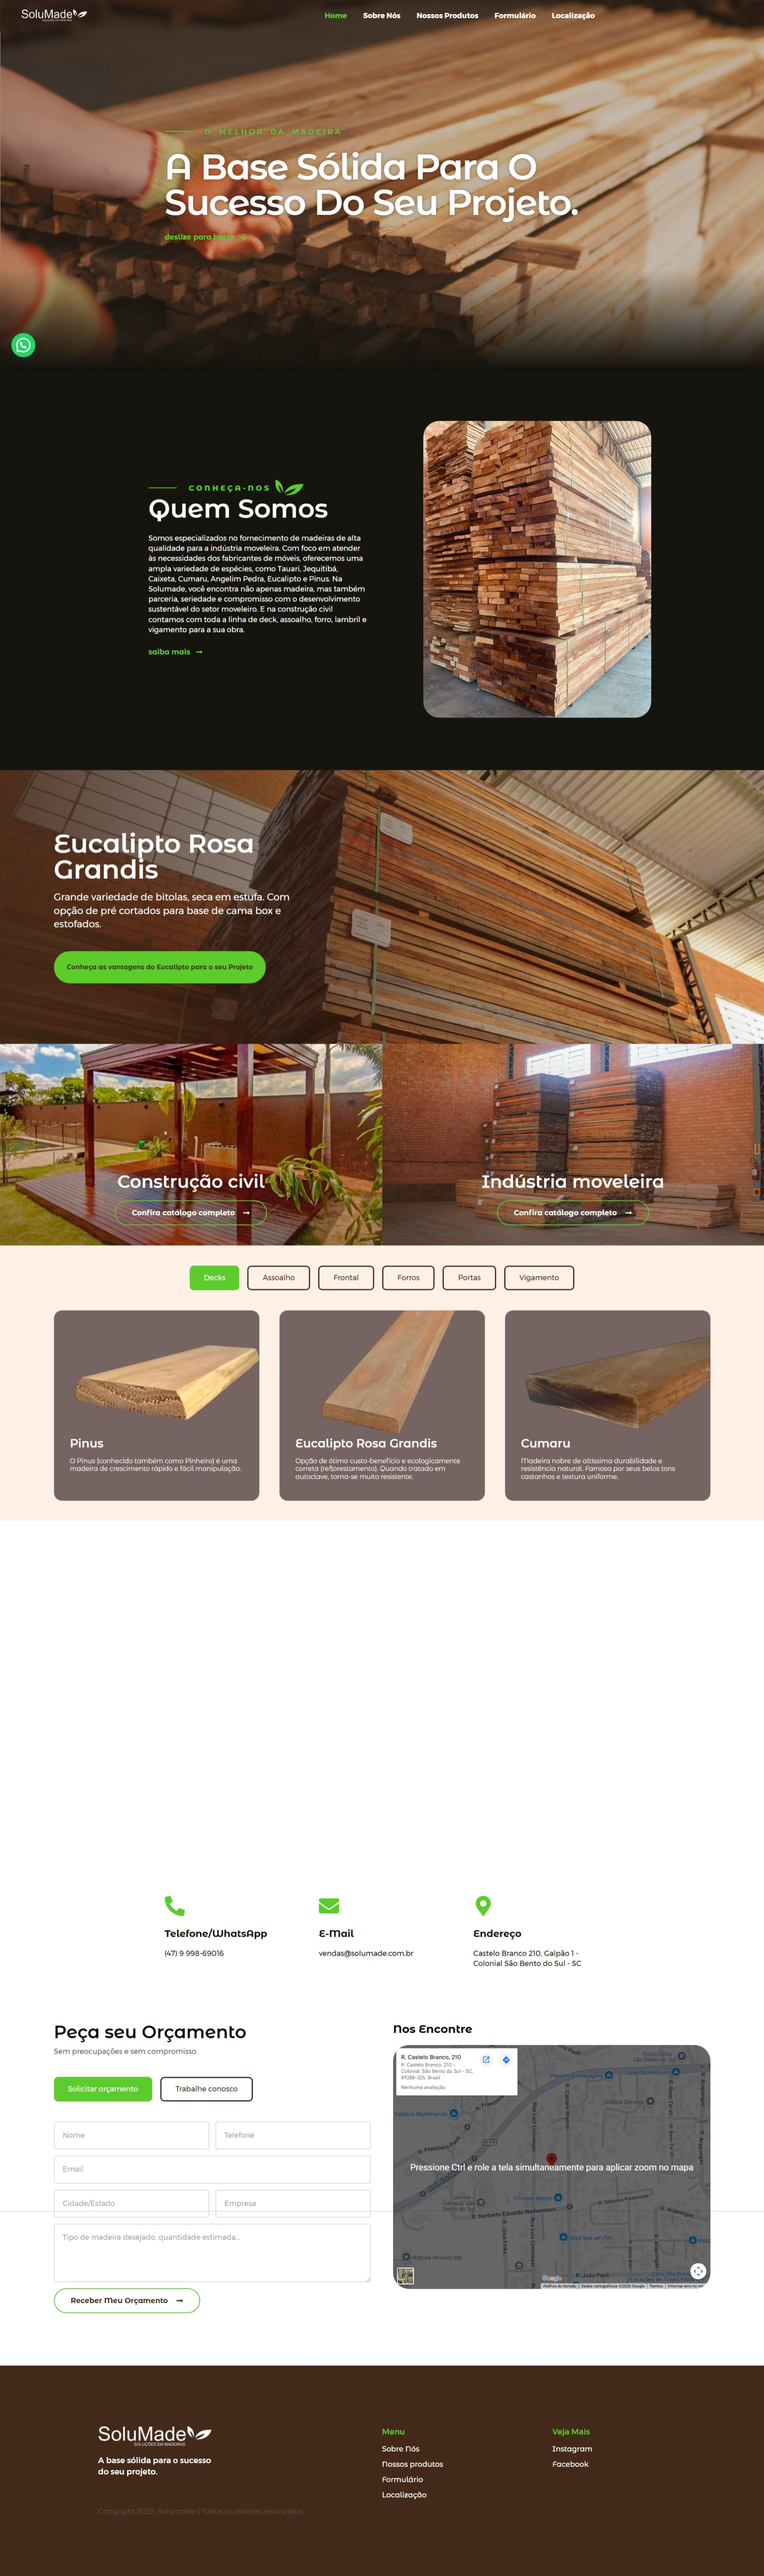
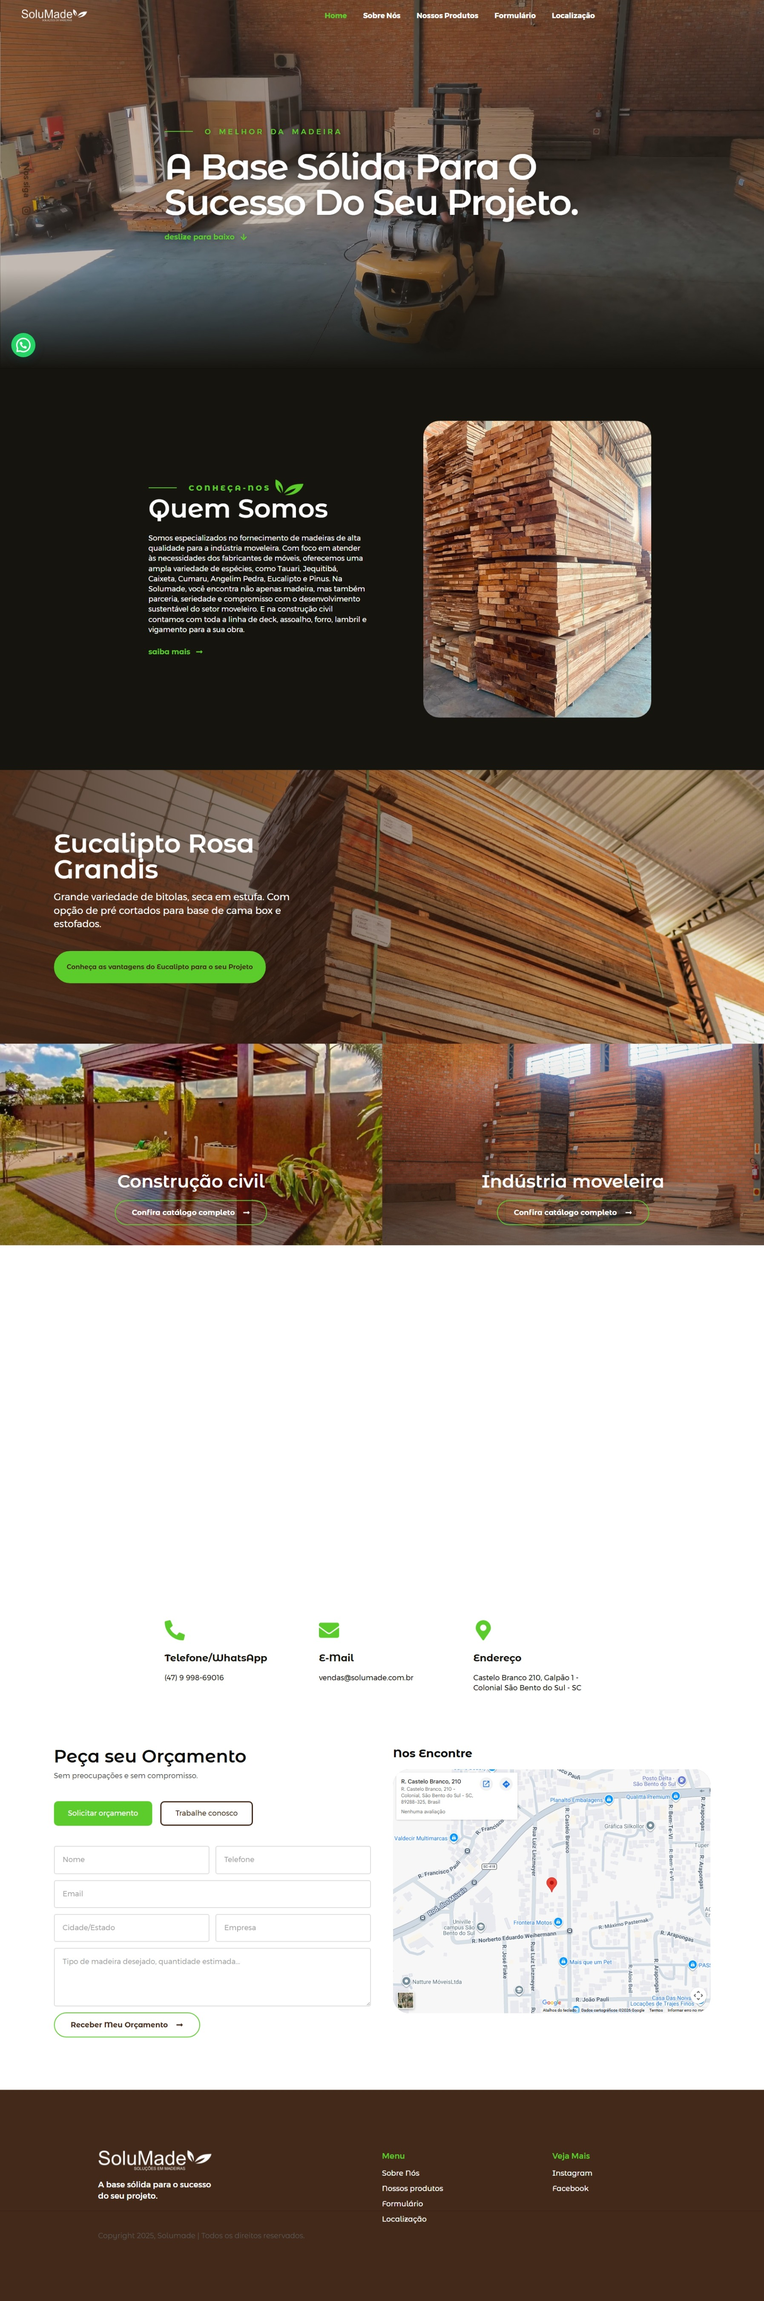
push 3

diff --git a/components/horizontal-gallery.tsx b/components/horizontal-gallery.tsx
@@ -39,6 +39,66 @@ const items = [
         description: "Infraestrutura escalável para resultados absurdos.",
         image: "/imagens/solumade.jpeg",
     },
+    {
+        id: 7,
+        title: "Kayu",
+        description: "Design moderno e elegante para sua marca.",
+        image: "/imagens/Kayu.png",
+    },
+    {
+        id: 8,
+        title: "Master Quality",
+        description: "Excelência e qualidade em cada detalhe.",
+        image: "/imagens/Master quality.png",
+    },
+    {
+        id: 9,
+        title: "SBC",
+        description: "Presença digital forte e impactante.",
+        image: "/imagens/SBC site.png",
+    },
+    {
+        id: 10,
+        title: "Bragança",
+        description: "Soluções visuais que convertem clientes.",
+        image: "/imagens/braganca.png",
+    },
+    {
+        id: 11,
+        title: "Echlin",
+        description: "Performance e design aliados para o sucesso.",
+        image: "/imagens/echlin.png",
+    },
+    {
+        id: 12,
+        title: "Silvertrend",
+        description: "Inovação e tecnologia em um só lugar.",
+        image: "/imagens/silvertrend.png",
+    },
+    {
+        id: 13,
+        title: "MAAHS",
+        description: "Excelência visual e foco em resultados.",
+        image: "/imagens/MAAHS.png",
+    },
+    {
+        id: 14,
+        title: "Henval",
+        description: "Autoridade e confiança no ambiente digital.",
+        image: "/imagens/henval.png",
+    },
+    {
+        id: 15,
+        title: "Lamobel",
+        description: "Estilo e sofisticação para destacar o seu negócio.",
+        image: "/imagens/lamobel.png",
+    },
+    {
+        id: 16,
+        title: "Pellens",
+        description: "Presença online rápida, robusta e escalável.",
+        image: "/imagens/pellens.png",
+    },
 ];
 
 export function HorizontalGallery() {
